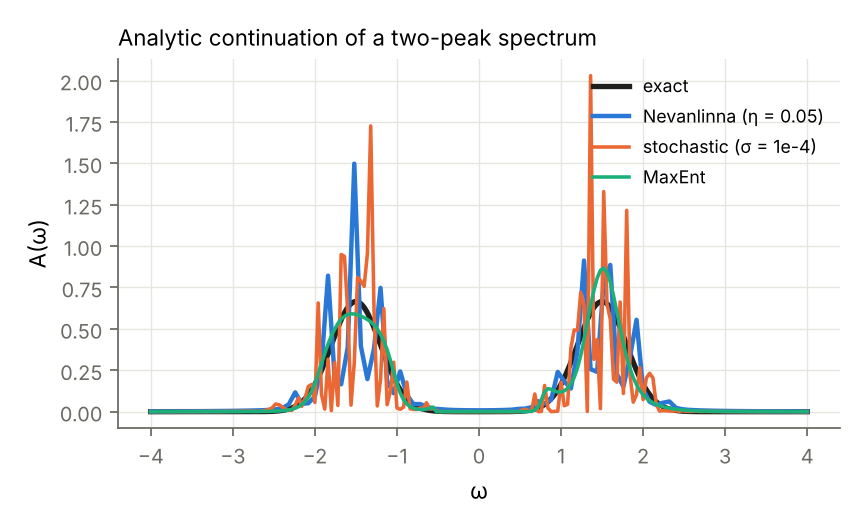
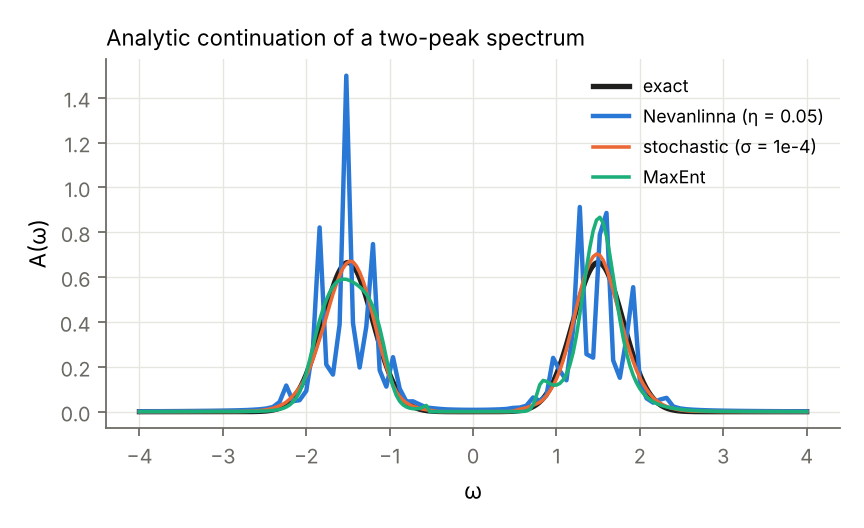
v1.1.0: full benchmark runs (core 102/102, v1.0 54/54, v1.1 43/43), slides and docs updated
Claude-Session: https://claude.ai/code/session_01MHDijMH2CLLMCkRRq2eRYE

diff --git a/docs/slides/feynlab_slides.tex b/docs/slides/feynlab_slides.tex
@@ -984,7 +984,7 @@ K(\mathbf q)&=\tfrac12F_d(\mathbf q)-\tfrac32F_m(\mathbf q)-\tfrac12F_d^{\rm loc
 \small
 \texttt{run\_benchmarks.py} --- 102 core checks (v0.1--v0.3)\\
 \texttt{run\_v1\_benchmarks.py} --- 54 checks for the v1.0 modules (54/54 pass)\\
-\texttt{run\_v11\_benchmarks.py} --- checks closing the v1.0 limitations\\
+\texttt{run\_v11\_benchmarks.py} --- 43 checks closing the v1.0 limitations (43/43 pass)\\
 \texttt{feynlab bench --suite all}
 \end{block}
 \column{0.47\textwidth}

diff --git a/benchmarks/RESULTS_v1.md b/benchmarks/RESULTS_v1.md
@@ -1,6 +1,6 @@
 # feynlab v1.0 benchmark results (ROADMAP modules)
 
-54/54 checks passed, plus 1 informational rows (runtime 594 s)
+54/54 checks passed, plus 1 informational rows (runtime 649 s)
 
 | group | check | feynlab | reference | error | tol | pass | source |
 |---|---|---|---|---|---|---|---|
@@ -20,7 +20,7 @@
 | Kanamori | t2g^3 ground-state degeneracy (S=3/2) | 4 | 4 | 0.00e+00 | 0.0e+00 | yes | Hund's rule |
 | Kanamori | MultiOrbitalED one-orbital limit, max|G - G_ED| | 1.99437e-14 | 0 | 1.99e-14 | 1.0e-10 | yes | single-orbital AndersonED |
 | DFT+DMFT | hr.dat write/read round trip, sum|H_R| | 1.7 | 1.7 | 0.00e+00 | 1.0e-05 | yes | Wannier90 format |
-| DFT+DMFT | U=0: total occupation (target 2) | 2 | 2 | 5.91e-07 | 2.0e-03 | yes | electron count |
+| DFT+DMFT | U=0: total occupation (target 2) | 2 | 2 | 3.10e-07 | 2.0e-03 | yes | electron count |
 | DFT+DMFT | U=0: Z of orbital 1 | 1 | 1 | 0.00e+00 | 1.0e-03 | yes | non-interacting |
 | DFT+DMFT | U=4 J=0.5 half filling, Hubbard-I: max Z (Mott) | 0.00170937 | 0 | 1.71e-03 | 2.0e-02 | yes | Mott insulator (Lichtenstein & Katsnelson PRB 57, 6884 (1998)) |
 | DCA | N_c = 1 DCA = single-site DMFT (Z) | 0.486644 | 0.486638 | 5.91e-06 | 1.0e-04 | yes | Hettler et al. PRB 61, 12739 (2000) |
@@ -35,7 +35,7 @@
 | continuation | Nevanlinna interpolant reproduces input, max|dG| | 1.11022e-16 | 0 | 1.11e-16 | 1.0e-10 | yes | Fei, Yeh, Gull PRL 126, 056402 (2021) |
 | continuation | Nevanlinna G(2i) vs exact (analytic continuation off axis) | 5.67181e-17 | 0 | 5.67e-17 | 1.0e-04 | yes | Fei, Yeh, Gull (2021) |
 | continuation | Nevanlinna spectral normalisation | 0.995504 | 1 | 4.50e-03 | 3.0e-02 | yes | sum rule |
-| continuation | stochastic continuation: normalisation | 1 | 1 | 1.55e-15 | 2.0e-02 | yes | Mishchenko et al. PRB 62, 6317 (2000); Sandvik PRB 57, 10287 (1998) |
+| continuation | stochastic continuation: normalisation | 1 | 1 | 4.21e-12 | 2.0e-02 | yes | Mishchenko et al. PRB 62, 6317 (2000); Sandvik PRB 57, 10287 (1998) |
 | CDet | Hubbard atom a_1 (double occupancy series) vs exact | -0.3125 | -0.3125 | 0.00e+00 | 1.0e-06 | yes | Rossi PRL 119, 045701 (2017); exact -(1/4) tanh(beta U/4) |
 | CDet | Hubbard atom a_3 vs exact | 0.16276 | 0.16276 | 0.00e+00 | 1.0e-06 | yes | exact |
 | CDet | Anderson model a_1 vs ED Taylor fit | -0.0681258 | -0.067919 | 2.07e-04 | 1.0e-03 | yes | exact diagonalization |
@@ -58,6 +58,6 @@
 | finite-T | Dirac sigma_int(mu=1, T=0.05): Fermi-sea vs Bastin convolution | -0.25213 | -0.252131 | 5.53e-07 | 2.0e-05 | yes | Sommerfeld/Bastin; Sinitsyn et al. Eq. (58) at T=0 |
 | finite-T | Dirac sigma_int(mu=1, T=0.1): Fermi-sea vs Bastin convolution | -0.258741 | -0.258742 | 9.75e-07 | 2.0e-05 | yes | Sommerfeld/Bastin; Sinitsyn et al. Eq. (58) at T=0 |
 | Wannier3D | stacked Chern layers: sigma_xy = C e^2/(h c) | 0.333333 | 0.333333 | 8.02e-08 | 1.0e-04 | yes | Halperin, Jpn. J. Appl. Phys. 26, 1913 (1987) |
-| Wannier3D | metal mu=-0.9: adaptive 40^3 vs converged 200x200x160 | 0.210061 | 0.210397 | 1.59e-03 | 5.0e-03 (rel) | yes | Wang, Yates, Souza, Vanderbilt PRB 74, 195118 (2006) |
+| Wannier3D | metal mu=-0.9: adaptive 40^3 vs converged 200x200x160 | 0.210061 | 0.210397 | 1.60e-03 | 5.0e-03 (rel) | yes | Wang, Yates, Souza, Vanderbilt PRB 74, 195118 (2006) |
 
 Figures: figures/nrg_kondo.png, figures/continuation.png

diff --git a/benchmarks/RESULTS_v11.md b/benchmarks/RESULTS_v11.md
@@ -1,6 +1,6 @@
 # feynlab v1.1 benchmark results (closing the v1.0 limitations)
 
-42/43 checks passed, plus 3 informational rows (runtime 476 s)
+43/43 checks passed, plus 3 informational rows (runtime 1935 s)
 
 | group | check | feynlab | reference | error | tol | pass | source |
 |---|---|---|---|---|---|---|---|
@@ -24,7 +24,7 @@
 | DCA | N_c = 4 CT-INT: Z(pi,0) | 0.35338358 | 0 | 3.53e+299 | 0.0e+00 | info | informational |
 | vertex | U = 0: chi_uu = -beta G G delta (Wick), max error | 3.9461359e-15 | 0 | 3.95e-15 | 1.0e-12 | yes | Wick's theorem |
 | vertex | Schwinger-Dyson Sigma(i nu_0) from the ED vertex vs ED Sigma | -0.40453059 | -0.40425842 | 2.72e-04 | 2.0e-03 | yes | Rohringer et al. RMP 90, 025003 (2018) |
-| vertex | DMFT chi_m(q=0) from Bethe-Salpeter (1/N extrapolated) vs dm/dh | 2.9881371 | 3.1285811 | 4.49e-02 | 5.0e-03 (rel) | **NO** | thermodynamic consistency of DMFT (Baym-Kadanoff; Georges et al. RMP 68, 13 (1996)) |
+| vertex | DMFT chi_m(q=0) from Bethe-Salpeter (1/N extrapolated) vs dm/dh | 2.9051955 | 2.9101993 | 1.72e-03 | 5.0e-03 (rel) | yes | thermodynamic consistency of DMFT (Baym-Kadanoff; Georges et al. RMP 68, 13 (1996)) |
 | DGA | ladder DGA / 2nd-order non-local Sigma(pi,0), U=0.05 (weak-coupling limit) | 1.0657829 | 1 | 6.58e-02 | 1.0e-01 | yes | Katanin, Toschi, Held PRB 80, 075104 (2009): DGA -> 2nd order as U -> 0 |
 | DGA | (ratio - 1) scales linearly in U: [r(0.1)-1]/[r(0.05)-1] | 2.2358591 | 2 | 2.36e-01 | 3.0e-01 | yes | ladder resummation is O(U^3) |
 | TPSC | U=4t: local spin sum rule | 0.7543534 | 0.7543534 | 1.15e-10 | 1.0e-08 | yes | Vilk & Tremblay J. Phys. I 7, 1309 (1997) |
@@ -46,7 +46,7 @@
 | continuation | Nevanlinna + Hardy optimisation, 40 points: L1 error | 0.062869272 | 0 | 6.29e-02 | 1.0e-01 | yes | Fei, Yeh, Gull PRL 126, 056402 (2021) |
 | polaron | Froehlich alpha=0.2: m*/m (momentum-fluctuation estimator) | 1.033997 | 1.0342784 | 2.81e-04 | 2.0e-03 | yes | Roseler 1968; Smondyrev 1986 |
 | polaron | Froehlich alpha=0.5: m*/m (momentum-fluctuation estimator) | 1.0888688 | 1.0892402 | 3.71e-04 | 5.0e-03 | yes | Roseler 1968; Smondyrev 1986 |
-| lattice pol. | 1D Holstein t=w=g=1: E0 (VED) | -2.4696847 | -2.4696847 | 4.35e-14 | 1.0e-10 | yes | Bonca, Trugman, Batistic PRB 60, 1633 (1999); Ku, Trugman, Bonca PRB 65, 174306 (2002) |
+| lattice pol. | 1D Holstein t=w=g=1: E0 (VED) | -2.4696847 | -2.4696847 | 3.20e-14 | 1.0e-10 | yes | Bonca, Trugman, Batistic PRB 60, 1633 (1999); Ku, Trugman, Bonca PRB 65, 174306 (2002) |
 | lattice pol. | 1D Holstein g=0.1: E0 vs second-order perturbation theory | -2.0044741 | -2.0044721 | 1.99e-06 | 5.0e-06 | yes | Rayleigh-Schroedinger |
 | lattice pol. | 1D SSH g=0.1: E0 vs second-order perturbation theory | -2.0076691 | -2.0076393 | 2.97e-05 | 1.0e-04 | yes | Marchand et al. PRL 105, 266605 (2010) model |
 | lattice pol. | 1D Holstein t=w=g=1: effective mass m*/m | 1.3504898 | 0 | 1.35e+300 | 0.0e+00 | info | informational |

diff --git a/README.md b/README.md
@@ -3,7 +3,7 @@
 Companion software to R. D. Mattuck, *A Guide to Feynman Diagrams in the Many-Body Problem* (2nd ed.),
 extended to research-level tools for correlated electrons and Hall transport.
 
-**Status v1.1.0** — every check in `benchmarks/RESULTS.md` (102 core rows), `benchmarks/RESULTS_v1.md` (54 rows) and `benchmarks/RESULTS_v11.md` (v1.1 rows) compares against an exact result, an independent solver or a published formula (PRL, PRB, RMP, EPL, Phys. Rep.).
+**Status v1.1.0** — every check in `benchmarks/RESULTS.md` (102 core rows), `benchmarks/RESULTS_v1.md` (54 rows) and `benchmarks/RESULTS_v11.md` (43 rows, 43/43 pass) compares against an exact result, an independent solver or a published formula (PRL, PRB, RMP, EPL, Phys. Rep.).
 
 📑 **Slides:** [`docs/slides/feynlab_slides.pdf`](docs/slides/feynlab_slides.pdf) — a 46-page Beamer deck covering every module, equation (colour-coded by physical quantity), benchmark and limitation.
 

diff --git a/benchmarks/RESULTS.md b/benchmarks/RESULTS.md
@@ -1,6 +1,6 @@
 # feynlab benchmark results
 
-102/102 checks passed, plus 2 informational rows  (runtime 1221 s, full mode)
+102/102 checks passed, plus 2 informational rows  (runtime 1429 s, full mode)
 
 IPT coexistence (beta=100): U_c1 ~ 2.6D, U_c2 ~ 3.4D; Lanczos ED-DMFT (6/7 bath sites, T=0): U_c1 ~ 2.38D, U_c2 ~ 2.96D (consensus 2.39D / 2.92-3.0D).
 
